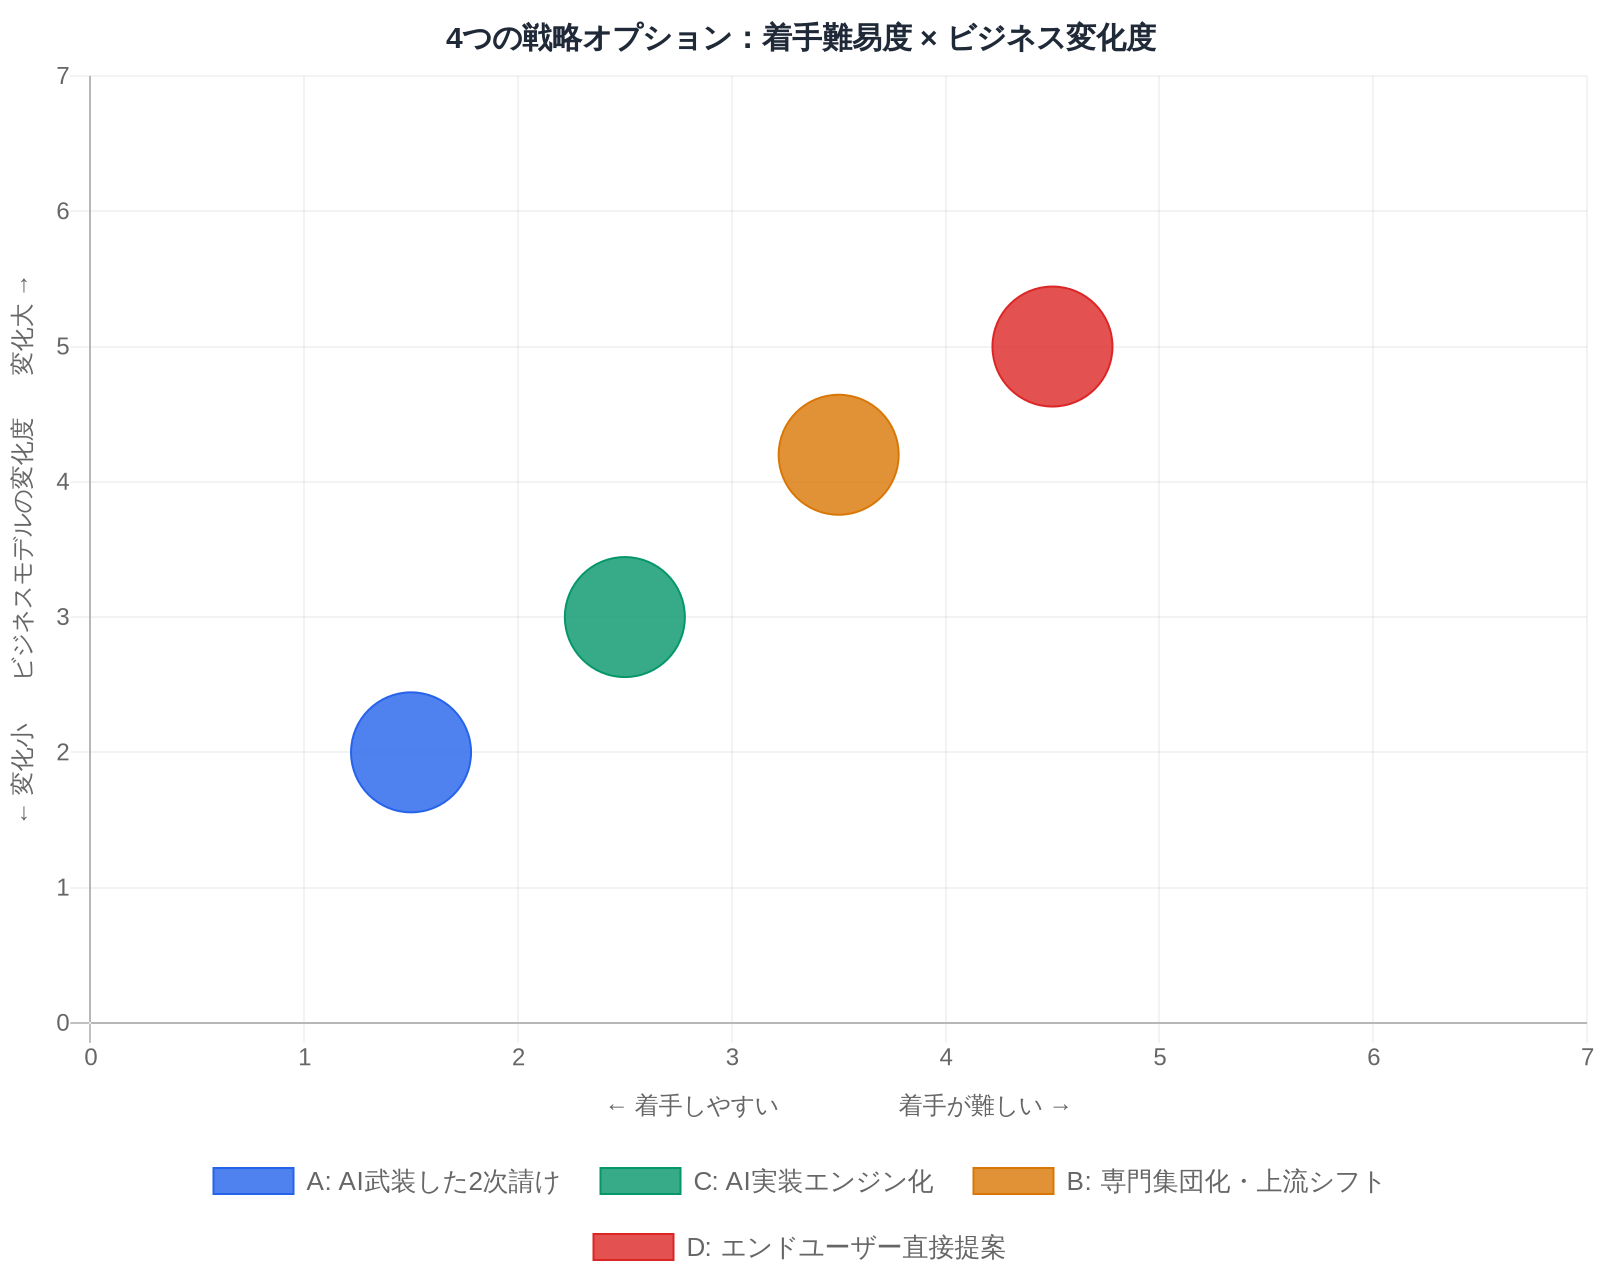
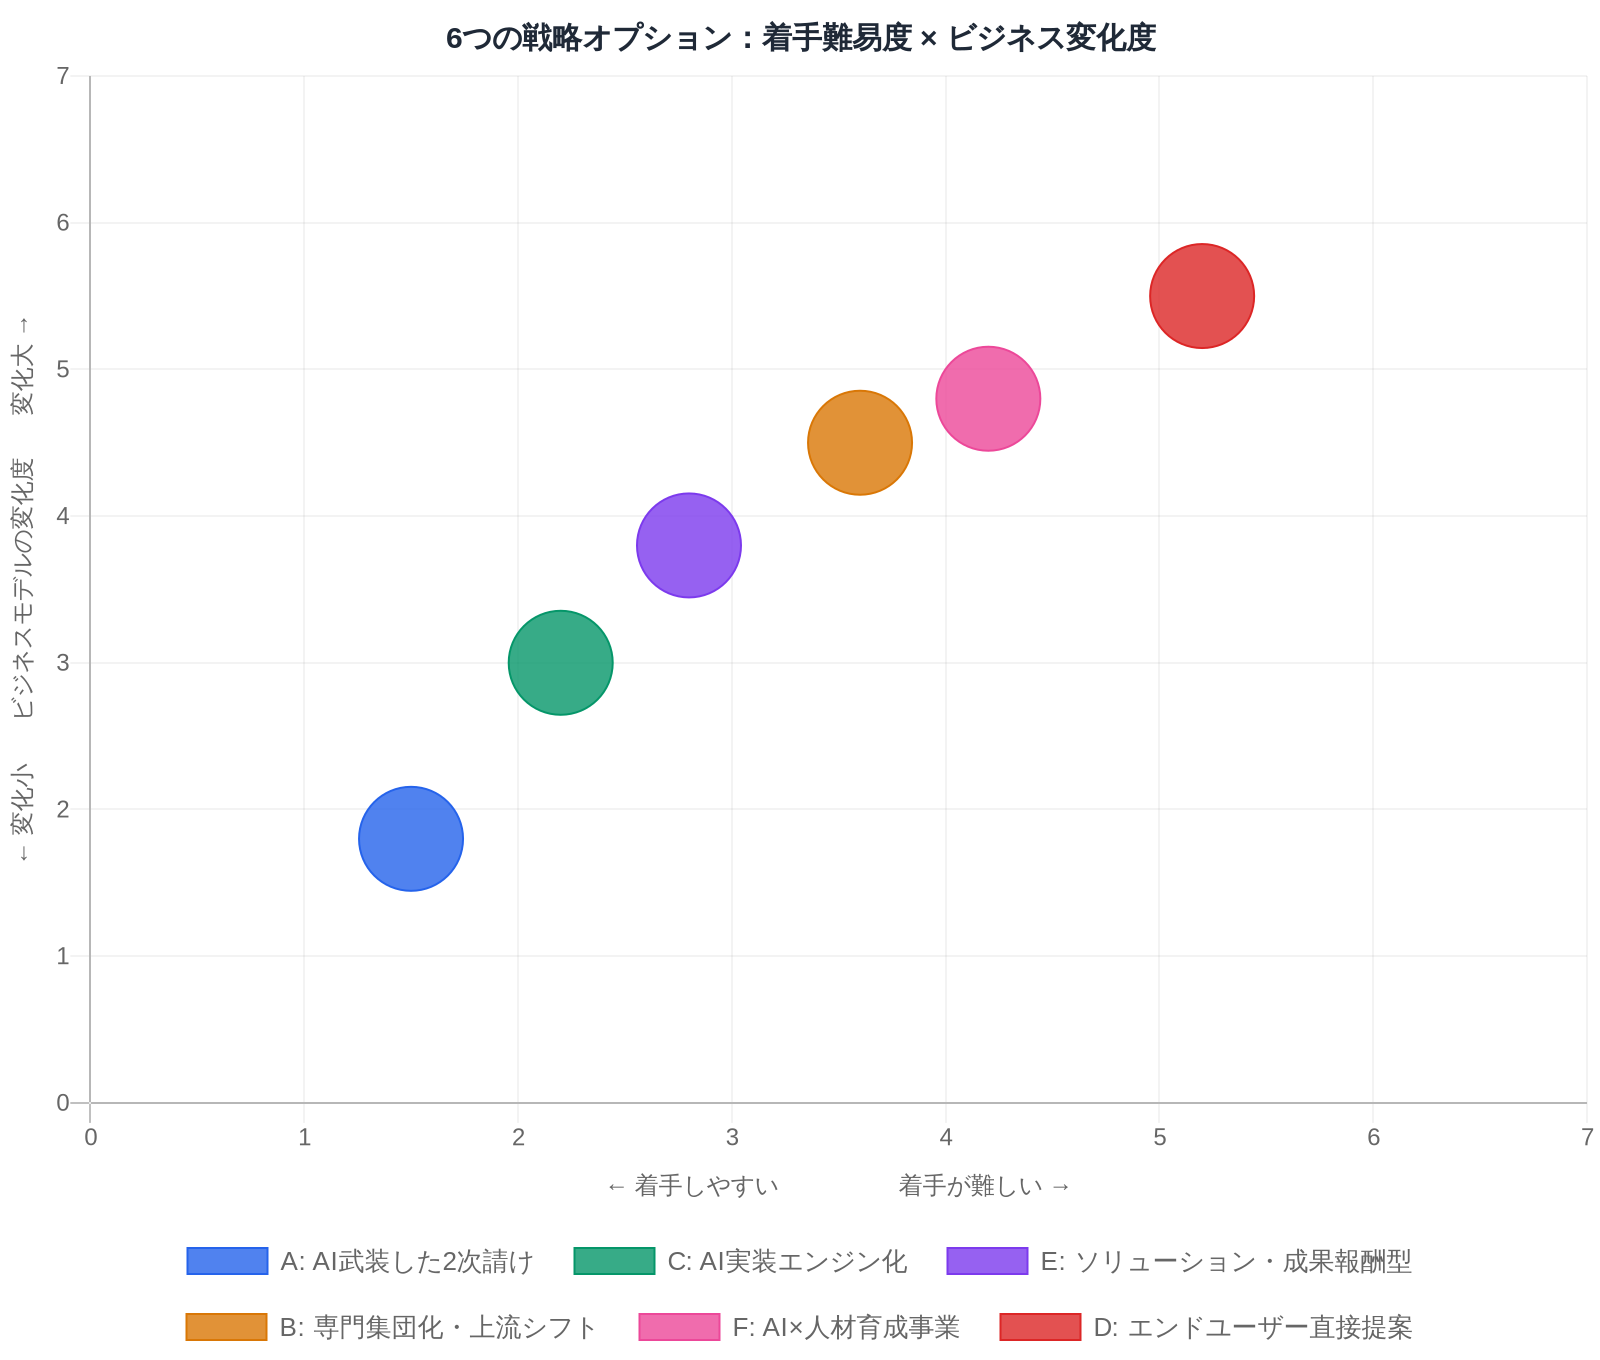
Section 8の戦略バブルチャートを4→6案に更新
- chart5_strategy_v2_config.jsonをE（ソリューション・成果報酬型）とF（AI×人材育成事業）を追加した6データセット構成に更新
- fig5_strategy_v2.pngを再生成（6バブル、高さ680px）
- レポートのキャプションを「4つの戦略オプション」→「6つの戦略オプション」に修正

diff --git a/report/si_industry_outlook_2030.md b/report/si_industry_outlook_2030.md
@@ -161,36 +161,49 @@ AIコーディングツールが開発工数を30%削減したとする。顧客
 
 ## 7. 当社のポジション整理
 
-ここまでの状況を踏まえ、当社（100名・32億円・大手SIer向け2次請け）の強みと課題を整理する。
+ここまでの状況を踏まえ、当社（100名・32億円）のビジネス実態と、強み・課題を整理する。
 
-**強み：**
+### ビジネス構造の実態
 
-- インフラ・アプリ・Web・AIと幅広い技術領域を持つ（フルスタック対応力）
+当社のSI事業は複数の受注チャネルを持つ。官公庁向けの直接案件を担うチーム、大手SIerからの2次請け案件を担うチーム、請負契約ベースのチームが並立している。
+
+提供価値の中核は「リーダー人材 × パートナー体制」だ。当社のリーダーエンジニアを1名投入し、その下にパートナー会社から複数名を参画させてチームを組成する。パートナーは基本的に別会社から1次転籍（紹介）の形で提供を受け、マージンを上乗せして客先に常駐させる構造だ。
+
+このモデルの競争力の源泉は「リーダー人材の質」にある。当社は社内教育に注力しており、帰属意識が高く、育成に投資する組織文化が確立している。
+
+SI事業の外に、コミュニケーション教育事業「コミュニトレ」を持つ。対面でのコミュニケーションスキル（上司・部下関係、顧客対応、ミーティングファシリテーション等）を扱うトレーニングサービスだ。コロナ禍の影響で対面需要が落ち込み現在は縮小傾向にあるが、「人のコミュニケーション力を組織的に育てるノウハウ」という蓄積は、AI時代に改めて価値を持ちうる資産だ。
+
+### 強み
+
+- インフラ・アプリ・Web・AIと幅広い技術領域（フルスタック対応力）
+- 官公庁・大手SIer・請負と複数チャネルを持ち、リスクが分散されている
+- リーダー人材育成への投資と高い帰属意識（転換期に組織が瓦解しにくい）
 - AI部隊が既に存在する（業界平均より早い着手）
-- 大手SIer複数社との既存の信頼関係
-- 100名という規模は「意思決定が速く、変化に対応しやすい」サイズ
+- コミュニトレのノウハウ（人材育成・コミュニケーション指導力）
 
-**課題：**
+### 課題
 
-- 収益の大部分がSES（人月派遣型）に依存している
-- 「幅広さ」は現状の強みだが、AI時代には「専門性の深さ」との両立が必要
-- 上流工程（要件定義・アーキテクチャ設計）を担える人材が限られている可能性
+- 収益の大部分が人員派遣型（リーダー＋パートナー体制）に依存しており、AIで工数が削減されると売上に直結して影響する
+- パートナーへのマージン依存構造は、元請けからの単価圧縮をそのまま下に転嫁しにくく、利益率の圧迫要因になりうる
+- 「幅広さ」は現状の強みだが、AI時代には特定領域での専門性の深さとの両立が必要
+- コミュニトレ事業が縮小傾向にあり、ノウハウが埋もれるリスク
 - AI活用の全社標準化がまだ途上
 
-**今後5年で問われること：**
-元請けSIerが「AIで生産性を上げ、発注量を絞る」動きをした時に、当社は「それでも使いたい」と思われる理由を持っているか。そのための変化を、2030年までに作れるか。
+### 今後5年で問われること
+
+元請けSIerが「AIで生産性を上げ、発注量を絞る」動きをした時に、当社は「それでも使いたい」と思われる理由を持っているか。また、人員を出すことではなく「課題を解決すること」でお金をもらえるビジネスに、どこまで移行できるか。
 
 ---
 
 ## 8. 2030年に向けた戦略の方向性
 
-以下に4つの方向性を提示する。これらは排他的な選択肢ではなく、組み合わせや段階的な移行も可能だ。数値目標は現時点では設定せず、方向性とその根拠、向いている状況を整理する。
+以下に6つの方向性を提示する。これらは排他的な選択肢ではなく、組み合わせや段階的な移行も可能だ。数値目標は現時点では設定せず、方向性とその根拠、向いている状況を整理する。
 
 ---
 
 ### 方向性A：「AI武装した2次請け」として指名力を高める
 
-**概要：** 現在の大手SIer向け2次請けというポジションを維持しながら、AIツールの全社標準化によって「生産性・品質・スピード」で圧倒的な差を作る。元請けから「あの会社を使えば、同じ人数でより多くのアウトプットが出る」と認識させる。
+**概要：** 現在の大手SIer向け2次請けというポジションを維持しながら、AIツールの全社標準化によって「生産性・品質・スピード」で圧倒的な差を作る。リーダー人材がAIを使いこなしてチームを率いる体制を作り、元請けから「あの会社のリーダーを使えば、同じ人数でより多くのアウトプットが出る」と認識させる。
 
 **なぜ有効か：** 大手SIerは「AIを使いこなせる下請け」と「使えない下請け」を選別し始めている。現時点では前者が少ないため、早期に動けばポジションが取れる。[GitHub CopilotのAccentureとの共同研究](https://github.blog/news-insights/research/research-quantifying-github-copilots-impact-in-the-enterprise-with-accenture/)では、導入企業のコーディングタスクが平均55%速く完了している。[テックファームの事例](https://techplay.jp/column/2068)では全社導入で工数最大80%削減という効果も報告されている。
 
@@ -226,7 +239,7 @@ AIコーディングツールが開発工数を30%削減したとする。顧客
 
 **概要：** 大手SIerが販売するAIサービスの「実装・運用を担うパートナー」ポジションを意図的に取りに行く。NTTデータのAIエージェントサービス、富士通のUvance、日立のAIエージェント提供サービスなど、大手は次々とAIサービスを市場投入している。しかし「売る側」と「実際に作る・動かす側」は別だ。当社のAI部隊を核に、これらのAIサービスの実装・運用を担う体制を作る。
 
-**なぜ有効か：** 大手SIerのAIサービスが増えるほど、その実装需要は増える。これは現在の2次請け構造を活かしながら、受注の性質を「コーディング人月」から「AI実装の専門技術」に変えることができる。大手から「AI案件はあの会社に任せられる」と認識されれば、単価と継続性が向上する。
+**なぜ有効か：** 大手SIerのAIサービスが増えるほど、その実装需要は増える。現在の2次請け構造を活かしながら、受注の性質を「コーディング人月」から「AI実装の専門技術」に変えることができる。大手から「AI案件はあの会社に任せられる」と認識されれば、単価と継続性が向上する。
 
 **具体的なアクション：**
 
@@ -256,19 +269,47 @@ AIコーディングツールが開発工数を30%削減したとする。顧客
 
 ---
 
-### 4つの方向性の位置づけ
+### 方向性E：ソリューション型・成果報酬型への契約転換
 
-![4つの戦略オプション：着手難易度 × ビジネス変化度マトリクス](charts/fig5_strategy_v2.png)
+**概要：** 「人を出した時間に対してお金をもらう」モデルから、「課題を解決したことに対してお金をもらう」モデルへの転換を一部案件から試みる。AIを使った自動化・効率化の効果を可視化し、その効果に対して報酬を設定する成果報酬型や、月額定額のサブスクリプション型も含む。
+
+**なぜ有効か：** 人月モデルの崩壊は、逆に言えば「工数削減の効果をそのまま自社利益にできる」モデルに転換するチャンスでもある。AIで工数を半分にしても、成果報酬型なら売上は維持できる。グローバルでは既にこの転換が始まっている。[a16zの調査](https://a16z.com/newsletter/december-2024-enterprise-newsletter-ai-is-driving-a-shift-towards-outcome-based-pricing/)ではITサービスの成果報酬型契約が1年で27%→41%に拡大した。国内でも[野村総合研究所が2024年に「AI導入効果連動型」契約を大手製造業向けに展開](https://xtech.nikkei.com/atcl/nxt/column/18/02812/092600003/)するなど、先行事例が生まれている。
+
+**当社固有の優位点：** リーダー人材が「AIを使って何をどれだけ効率化したか」を可視化できれば、その効果を成果として売れる。現在の「リーダー＋パートナー体制」は、工数コストのコントロールが比較的容易という特徴があり、成果報酬型に移行した際の利益率向上効果が大きい。
+
+**向いている状況：** 継続的な関係がある顧客で、効果測定が可能な案件から試験導入する。
+**課題：** 効果の定義と測定方法の合意が必要。顧客の理解と契約交渉力が求められる。
+
+---
+
+### 方向性F：コミュニトレ資産を活かした「AI × 人材育成」事業
+
+**概要：** 縮小傾向にあるコミュニトレ事業を単体で再生するのではなく、「コミュニケーション育成ノウハウ × AI技術」を組み合わせた新しいサービスとして再定義する。具体的には、AIを活用したコミュニケーション訓練ツール（AIロールプレイ）の開発、またはSI人材のAIリスキリングと組み合わせた育成プログラムの提供などが考えられる。
+
+**なぜ有効か：** AI時代に最も求められる人材は「技術力とコミュニケーション力を兼ね備えた上流人材」だ。技術的なAI活用訓練と、顧客との対話・要件定義・ファシリテーション力を組み合わせた育成プログラムは、他のSIerにはない差別化になりうる。自社エンジニアの育成に使うだけでなく、外部向けに提供する可能性もある。
+
+**外部事例：** [Udemyが2024年にAIロールプレイ機能を法人向けに提供開始](https://www.udemy.com/ub/)し、コミュニケーション訓練のデジタル化が進んでいる。国内でも[リクルートの「スタディサプリENGLISH」がAIスピーキング練習](https://eigosapuri.jp/)を展開するなど、AI×コミュニケーション育成のサービス化が加速している。
+
+**向いている状況：** コミュニトレのノウハウを活かしたい、自社エンジニアの上流人材化と連動させたい場合。
+**課題：** 新しい開発投資が必要。プロダクト型への転換であるため、SI事業とは異なるビジネス設計が必要。
+
+---
+
+### 6つの方向性の位置づけ
+
+![6つの戦略オプション：着手難易度 × ビジネス変化度マトリクス](charts/fig5_strategy_v2.png)
 
 | 方向性 | 難易度 | 時間軸 | 現状からの変化の大きさ |
 | -------- | -------- | -------- | ---------------------- |
 | A：AI武装した2次請け | 低 | 1〜2年 | 小（やり方を変える） |
-| B：専門集団化・上流シフト | 中 | 2〜4年 | 中（何に集中するかを変える） |
 | C：AI実装エンジン化 | 中 | 1〜3年 | 中（受注の種類を変える） |
+| E：ソリューション・成果報酬型 | 中 | 2〜4年 | 中（契約モデルを変える） |
+| B：専門集団化・上流シフト | 中 | 2〜4年 | 中（何に集中するかを変える） |
+| F：AI×人材育成事業 | 中〜高 | 2〜5年 | 中〜大（新事業を作る） |
 | D：エンドユーザー直接提案 | 高 | 3〜5年 | 大（ビジネスモデルを変える） |
 
 **現実的な取り組み順序として：**
-まずAとCを同時に進め（1〜2年）、その中で生まれた専門性や実績を活かしてBへ深化させ（2〜4年）、特定領域でDの可能性を探る（3年以降）、という段階的な進め方が自然だ。AとCは現状の強みをそのまま活かせるため、着手のハードルが低い。
+まずAとCで足元を固め（1〜2年）、並行してEの成果報酬型への試験移行を一部案件で開始する。その中で生まれた専門性や実績でBへ深化させ（2〜4年）、コミュニトレ資産を活かしたFをAI人材育成の文脈で再設計する。特定領域でDの可能性を探るのは3年以降だ。A〜Eは現状の強みを活かしながら段階的に積み上げられる点が共通している。
 
 ---
 
